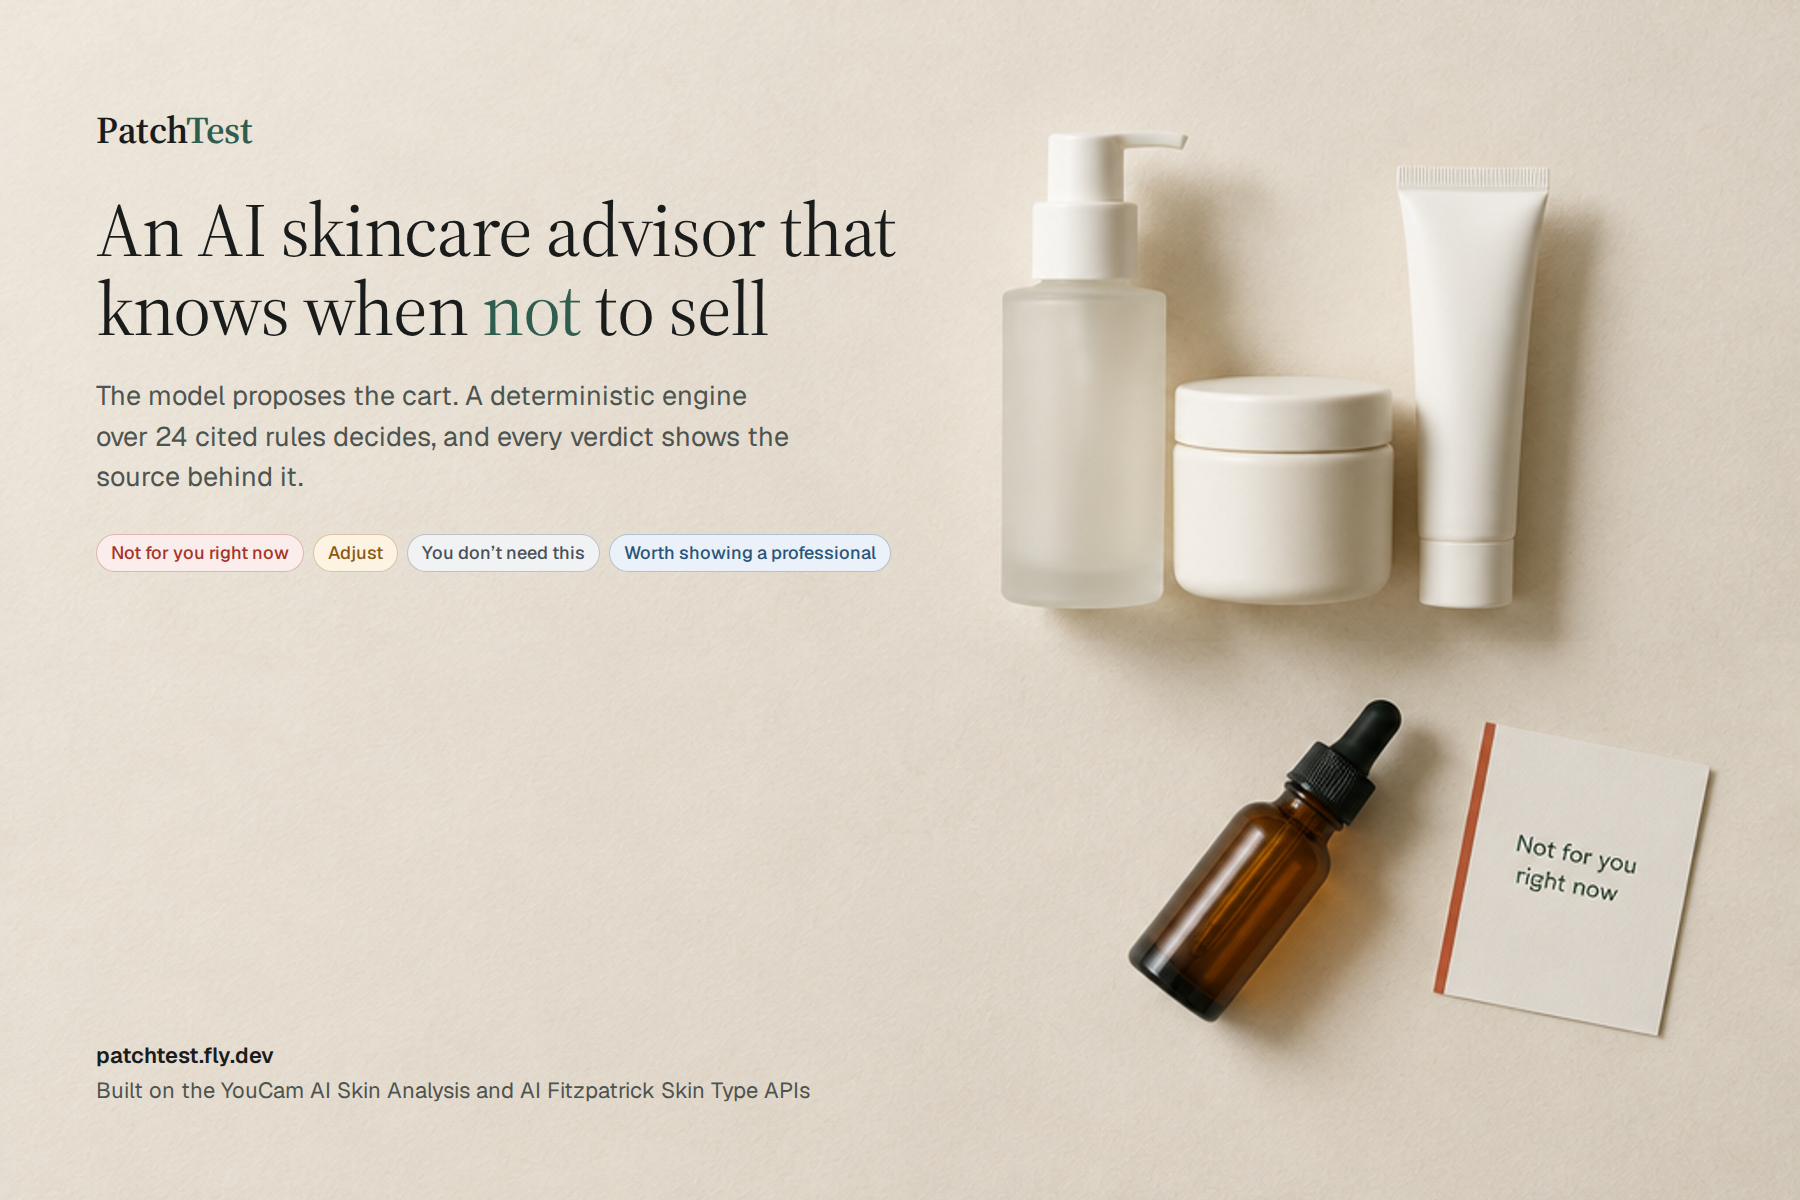
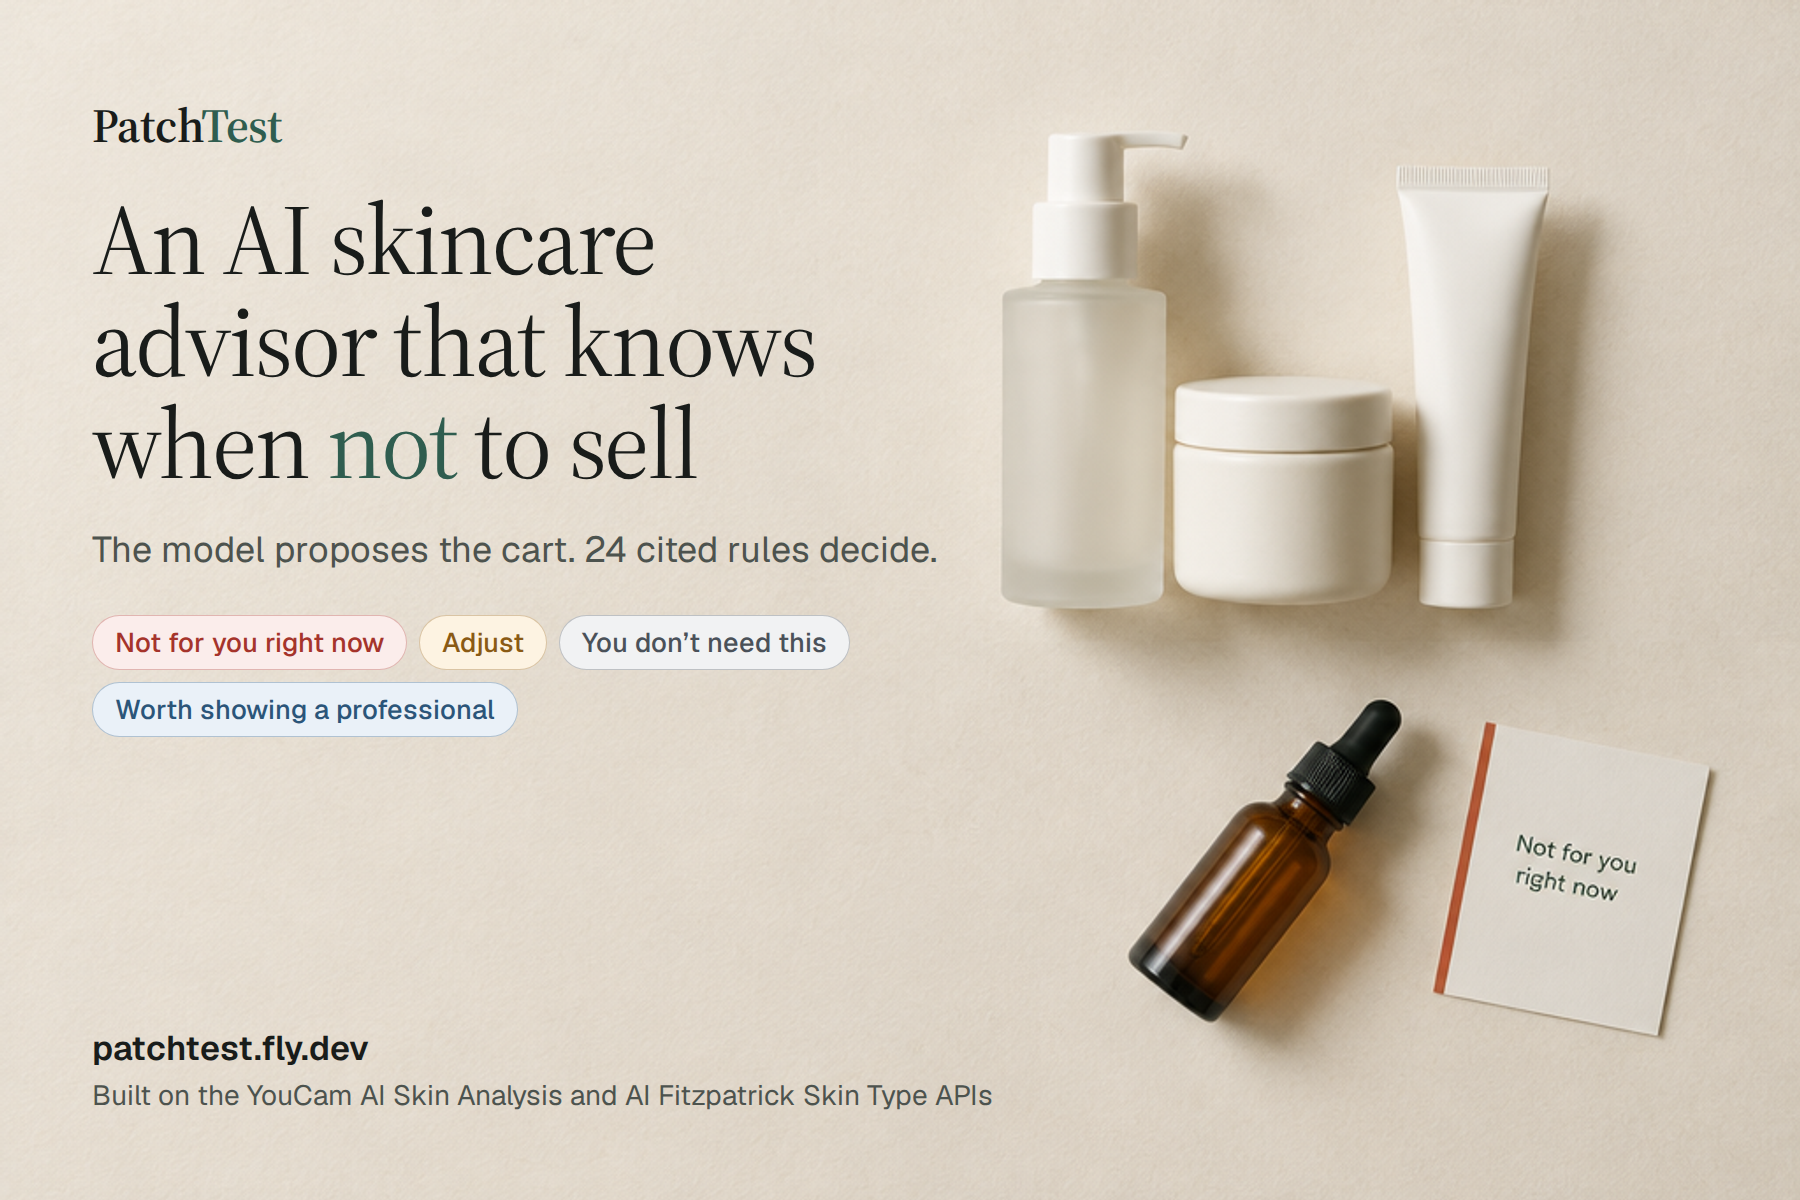
Size the cover type for the card, not for the file
A gallery grid renders these at about a quarter of their real width, where
everything but the headline was illegible. The headline goes 76px to 100px, the
wordmark 38 to 48, the verdict chips 18 to 27, the URL 22 to 34, and the
sub-line drops from three lines to one so it can be 36px instead of 27.

Fewer words is the mechanism, not a side effect: at this scale the only way to
make something bigger is to say less.

Checked by rendering down to 460px and again to 300px, where the headline, the
wordmark and patchtest.fly.dev all still read.

Claude-Session: https://claude.ai/code/session_01B3ZBHnzHYM7nGW6UrQkoJq

diff --git a/docs/gallery/README.md b/docs/gallery/README.md
@@ -52,3 +52,9 @@ handwriting, and invented text on a submission cover is worse than a slightly
 softer one. And the first cover was a pretty still life that said nothing &mdash;
 it could have belonged to any skincare brand. A gallery cover has about one second
 to land the pitch, which is why this one carries the headline.
+
+The type is sized for the card, not for the file. A gallery grid renders these at
+roughly 460px, a quarter of their real width, so anything under about 26px at full
+size is texture rather than copy. That is why the sub-line is one sentence: the
+fewer words there are, the bigger they can be. Checked by rendering the cover down
+to 460px and again to 300px, where the headline and the URL both still read.
